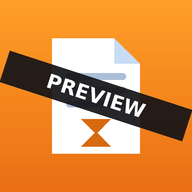
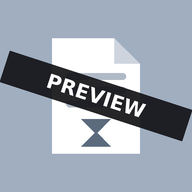
Android-ready install help, orange theme, blue-gray preview
- Device-neutral wording ("this device"); install help in the browser:
  Install app button where offered (Android Chromium), Android menu
  steps otherwise, iPhone Share -> Add to Home Screen; hidden when installed
- Live app accent and icon switched from blue to orange (contrast-checked:
  light #C2410C with white text, dark #FF8A3D with dark text)
- Preview restyled in muted blue-gray: flat icon with PREVIEW band,
  striped monospace banner, slate accent
- Tests: platform detection unit tests; e2e on iPhone and Pixel 7 profiles
  (24/24 each), preview isolation 11/11; docs incl. custom icon guide

Claude-Session: https://claude.ai/code/session_01TQMKAVub6FwojoZ4grUgiR

diff --git a/src/App.tsx b/src/App.tsx
@@ -10,6 +10,7 @@ import { formatBytes } from "./format";
 import { pageRequestCount } from "./netMonitor";
 import { applyUpdate, checkForUpdates, subscribePwa, type PwaState, type UpdateState } from "./pwa";
 import { DiagnosticsDialog } from "./components/Dialogs";
+import { promptInstall, subscribeInstall, type InstallState } from "./install";
 import { buildDiagnostics } from "./diagnostics";
 
 type Stage =
@@ -65,7 +66,7 @@ function friendlyError(e: unknown): string {
       case "not-pdf":
         return "This file couldn't be read as a PDF. It may be damaged or a different file type.";
       case "memory":
-        return "This document needs more memory than iOS allows a web app. Try a smaller file, or the Lossless profile.";
+        return "This document needs more memory than this device allows a web app. Try a smaller file, or the Lossless profile.";
       case "crashed":
         return e.message;
       default:
@@ -75,7 +76,7 @@ function friendlyError(e: unknown): string {
   return `Unexpected error: ${(e as Error)?.message ?? String(e)}`;
 }
 
-/** Keeps the screen on during processing where supported, because iOS suspends backgrounded web apps. */
+/** Keeps the screen on during processing where supported, because phones suspend backgrounded web apps. */
 async function holdWakeLock(): Promise<() => void> {
   try {
     const nav = navigator as Navigator & { wakeLock?: { request(t: "screen"): Promise<{ release(): Promise<void> }> } };
@@ -93,9 +94,11 @@ export default function App() {
   const [profile, setProfile] = useState<ProfileId>(loadProfile);
   const [pwa, setPwa] = useState<PwaState | null>(null);
   const [diagnostics, setDiagnostics] = useState<string | null>(null);
+  const [install, setInstall] = useState<InstallState | null>(null);
   const fileInput = useRef<HTMLInputElement>(null);
 
   useEffect(() => subscribePwa(setPwa), []);
+  useEffect(() => subscribeInstall(setInstall), []);
   useEffect(() => {
     // Load the engine in the background so the first analysis starts immediately.
     engine.current!.warmUp().catch(() => {});
@@ -188,13 +191,31 @@ export default function App() {
         {stage.kind === "home" && (
           <div className="home">
             <div className="home-icon" aria-hidden="true">
-              <img src="./icon-192.png" alt="" width={96} height={96} />
+              <img src={IS_PREVIEW ? "./preview-icon-192.png" : "./icon-192.png"} alt="" width={96} height={96} />
             </div>
             <p className="home-lead">Shrink scanned PDFs without losing quality, searchable text or bookmarks.</p>
             <button type="button" className="btn btn-primary btn-large" onClick={pickFile}>
               Choose PDF
             </button>
-            <p className="footnote center">Processed entirely on this iPhone. Nothing is uploaded.</p>
+            <p className="footnote center">Processed entirely on this device. Nothing is uploaded.</p>
+            {install && !install.standalone && (
+              <div className="install-hint">
+                {install.canPrompt ? (
+                  <button type="button" className="btn btn-secondary" onClick={() => void promptInstall()}>
+                    Install app
+                  </button>
+                ) : install.platform === "ios" ? (
+                  <p className="footnote center">
+                    To install: tap <strong>Share</strong>, then <strong>Add to Home Screen</strong>. It then works offline.
+                  </p>
+                ) : install.platform === "android" ? (
+                  <p className="footnote center">
+                    To install: open the browser menu <strong>⋮</strong>, then <strong>Install app</strong> or{" "}
+                    <strong>Add to Home screen</strong>. It then works offline.
+                  </p>
+                ) : null}
+              </div>
+            )}
           </div>
         )}
 

diff --git a/src/styles.css b/src/styles.css
@@ -6,8 +6,10 @@
   --text: #000000;
   --text-2: #3c3c4399;
   --sep: #3c3c434a;
-  --accent: #007aff;
-  --accent-press: #0062cc;
+  /* Orange accent. Deep enough for white text (contrast 5.2:1). */
+  --accent: #c2410c;
+  --accent-press: #9a3412;
+  --on-accent: #ffffff;
   --fill: #7676801f;
   --green: #34c759;
   --red: #ff3b30;
@@ -23,8 +25,9 @@
     --text: #ffffff;
     --text-2: #ebebf599;
     --sep: #54545899;
-    --accent: #0a84ff;
-    --accent-press: #409cff;
+    --accent: #ff8a3d;
+    --accent-press: #ffa868;
+    --on-accent: #1a0b00; /* dark text on bright orange (8.9:1) */
     --fill: #7676803d;
     --green: #30d158;
     --red: #ff453a;
@@ -91,7 +94,7 @@ button { font: inherit; }
   min-height: 50px; padding: 14px 20px; font-size: 17px; font-weight: 600; cursor: pointer;
 }
 .btn:disabled { opacity: 0.4; }
-.btn-primary { background: var(--accent); color: #fff; }
+.btn-primary { background: var(--accent); color: var(--on-accent); }
 .btn-primary:active:not(:disabled) { background: var(--accent-press); }
 .btn-secondary { background: var(--card); color: var(--accent); }
 .btn-secondary:active:not(:disabled) { background: var(--fill); }
@@ -166,7 +169,7 @@ button { font: inherit; }
 .modal-title { margin: 0 40px 10px 0; font-size: 22px; font-weight: 700; }
 .modal-icon {
   width: 56px; height: 56px; border-radius: 28px; margin: 4px auto 12px; display: flex;
-  align-items: center; justify-content: center; font-size: 28px; color: #fff; background: var(--accent);
+  align-items: center; justify-content: center; font-size: 28px; color: var(--on-accent); background: var(--accent);
 }
 .modal-text { margin: 0 0 4px; font-size: 16px; color: var(--text-2); }
 .modal-text.small { font-size: 14px; }
@@ -177,9 +180,23 @@ button { font: inherit; }
 @keyframes fade-in { from { opacity: 0; } to { opacity: 1; } }
 @media (prefers-reduced-motion: reduce) { .modal-backdrop { animation: none; } }
 
+/* Preview build: muted blue-gray, deliberately plain "work in progress" look. */
+:root[data-variant="preview"] {
+  --accent: #5b6b7d;
+  --accent-press: #46535f;
+  --on-accent: #ffffff;
+}
+@media (prefers-color-scheme: dark) {
+  :root[data-variant="preview"] {
+    --accent: #a5b4c6;
+    --accent-press: #c3cdd9;
+    --on-accent: #0f172a;
+  }
+}
 .preview-banner {
-  background: var(--orange); color: #000; text-align: center; font-size: 13px; font-weight: 600;
-  padding: 6px 12px;
+  color: #1e293b; text-align: center; font: 600 12px/1.3 ui-monospace, Menlo, monospace;
+  letter-spacing: 0.02em; padding: 6px 12px; border-bottom: 1px dashed #94a3b8;
+  background: repeating-linear-gradient(-45deg, #cbd5e1 0 10px, #d5dde7 10px 20px);
 }
 
 /* "App info & updates" summary row: title on the left, update badge on the right */
@@ -198,3 +215,5 @@ button { font: inherit; }
 }
 .update-badge.quiet { background: var(--fill); color: var(--text-2); font-weight: 400; }
 .update-dot { width: 8px; height: 8px; border-radius: 4px; background: var(--accent); }
+
+.install-hint { margin-top: 4px; }

diff --git a/src/install.ts b/src/install.ts
@@ -1,0 +1,78 @@
+/**
+ * "Install this app" help for people opening the link in a browser.
+ *
+ * - Android Chrome / Edge / Samsung Internet (and desktop Chrome) fire
+ *   `beforeinstallprompt`; we keep the event and offer a real Install button.
+ * - iPhone/iPad Safari has no install API; we show the Share → Add to Home
+ *   Screen steps instead.
+ * - Once running as an installed app (standalone), nothing is shown.
+ */
+
+export type Platform = "ios" | "android" | "other";
+
+interface BeforeInstallPromptEvent extends Event {
+  prompt(): Promise<void>;
+  userChoice: Promise<{ outcome: "accepted" | "dismissed" }>;
+}
+
+export interface InstallState {
+  standalone: boolean;
+  platform: Platform;
+  /** True when the browser offers a one-tap install (Android/desktop Chromium). */
+  canPrompt: boolean;
+}
+
+let deferred: BeforeInstallPromptEvent | null = null;
+const listeners = new Set<(s: InstallState) => void>();
+
+export function detectPlatform(ua = navigator.userAgent, maxTouchPoints = navigator.maxTouchPoints): Platform {
+  if (/android/i.test(ua)) return "android";
+  // iPadOS 13+ reports itself as a Mac; touch support gives it away.
+  if (/iphone|ipad|ipod/i.test(ua) || (/macintosh/i.test(ua) && maxTouchPoints > 1)) return "ios";
+  return "other";
+}
+
+function isStandalone(): boolean {
+  return (
+    window.matchMedia?.("(display-mode: standalone)").matches === true ||
+    (navigator as Navigator & { standalone?: boolean }).standalone === true
+  );
+}
+
+function state(): InstallState {
+  return { standalone: isStandalone(), platform: detectPlatform(), canPrompt: deferred !== null };
+}
+
+function emit() {
+  const s = state();
+  for (const l of listeners) l(s);
+}
+
+export function subscribeInstall(l: (s: InstallState) => void): () => void {
+  listeners.add(l);
+  l(state());
+  return () => listeners.delete(l);
+}
+
+/** Shows the browser's install dialog (only when canPrompt). */
+export async function promptInstall(): Promise<void> {
+  const e = deferred;
+  if (!e) return;
+  deferred = null;
+  await e.prompt();
+  await e.userChoice.catch(() => undefined);
+  emit();
+}
+
+/** Must run at startup, before the browser fires the event. */
+export function startInstallListener() {
+  window.addEventListener("beforeinstallprompt", (e) => {
+    e.preventDefault(); // keep it for our own button instead of the browser's mini-bar
+    deferred = e as BeforeInstallPromptEvent;
+    emit();
+  });
+  window.addEventListener("appinstalled", () => {
+    deferred = null;
+    emit();
+  });
+}

diff --git a/test/install.test.ts b/test/install.test.ts
@@ -1,0 +1,16 @@
+import { describe, it, expect } from "vitest";
+import { detectPlatform } from "../src/install";
+
+describe("platform detection for install help", () => {
+  it.each([
+    ["Mozilla/5.0 (iPhone; CPU iPhone OS 18_1 like Mac OS X) AppleWebKit/605.1.15 (KHTML, like Gecko) Version/18.1 Mobile/15E148 Safari/604.1", 5, "ios"],
+    ["Mozilla/5.0 (Macintosh; Intel Mac OS X 10_15_7) AppleWebKit/605.1.15 (KHTML, like Gecko) Version/18.1 Safari/605.1.15", 5, "ios"], // iPad in desktop mode
+    ["Mozilla/5.0 (Macintosh; Intel Mac OS X 10_15_7) AppleWebKit/605.1.15 (KHTML, like Gecko) Version/18.1 Safari/605.1.15", 0, "other"], // real Mac
+    ["Mozilla/5.0 (Linux; Android 14; Pixel 7) AppleWebKit/537.36 (KHTML, like Gecko) Chrome/130.0.0.0 Mobile Safari/537.36", 5, "android"],
+    ["Mozilla/5.0 (Linux; Android 14; SM-S918B) AppleWebKit/537.36 (KHTML, like Gecko) SamsungBrowser/26.0 Chrome/122.0.0.0 Mobile Safari/537.36", 5, "android"],
+    ["Mozilla/5.0 (Android 14; Mobile; rv:131.0) Gecko/131.0 Firefox/131.0", 5, "android"],
+    ["Mozilla/5.0 (Windows NT 10.0; Win64; x64) AppleWebKit/537.36 (KHTML, like Gecko) Chrome/130.0.0.0 Safari/537.36", 0, "other"],
+  ])("%s → %s", (ua, touch, expected) => {
+    expect(detectPlatform(ua as string, touch as number)).toBe(expected);
+  });
+});

diff --git a/src/components/ProcessingView.tsx b/src/components/ProcessingView.tsx
@@ -50,7 +50,7 @@ export function ProcessingView({
       <p className="processing-label">{label}</p>
       <p className="processing-time">{formatMs(Math.max(0, now - startedAt))}</p>
       <p className="footnote center">
-        Keep this app open and on screen. iOS pauses web apps in the background. Everything runs on this device.
+        Keep this app open and on screen. Phones pause web apps in the background. Everything runs on this device.
       </p>
       <button type="button" className="btn btn-secondary" onClick={onCancel}>
         Cancel

diff --git a/src/main.tsx b/src/main.tsx
@@ -3,9 +3,11 @@ import { createRoot } from "react-dom/client";
 import App from "./App";
 import { startNetMonitor } from "./netMonitor";
 import { registerServiceWorker } from "./pwa";
+import { startInstallListener } from "./install";
 import "./styles.css";
 
 startNetMonitor();
+startInstallListener();
 registerServiceWorker();
 
 createRoot(document.getElementById("root")!).render(

diff --git a/build/app-identity.ts b/build/app-identity.ts
@@ -16,7 +16,8 @@ export function appIdentity(): Plugin {
     transformIndexHtml(html) {
       return html
         .replaceAll("__APP_NAME__", NAME)
-        .replaceAll("__ICON_PREFIX__", ICON);
+        .replaceAll("__ICON_PREFIX__", ICON)
+        .replaceAll("__VARIANT__", IS_PREVIEW ? "preview" : "live");
     },
     generateBundle() {
       const manifest = {

diff --git a/src/format.ts b/src/format.ts
@@ -1,4 +1,4 @@
-/** Decimal units, matching how iOS Files reports sizes. */
+/** Decimal units, matching how the iOS Files and Android Files apps report sizes. */
 export function formatBytes(n: number): string {
   if (n < 1000) return `${n} B`;
   if (n < 1e6) return `${(n / 1e3).toFixed(n < 1e4 ? 1 : 0)} KB`;

diff --git a/index.html b/index.html
@@ -1,5 +1,5 @@
 <!doctype html>
-<html lang="en">
+<html lang="en" data-variant="__VARIANT__">
   <head>
     <meta charset="UTF-8" />
     <!--

diff --git a/scripts/make-icons.py b/scripts/make-icons.py
@@ -6,25 +6,26 @@ def icon(size, maskable=False, preview=False):
     S = size * 4  # supersample
     im = Image.new("RGB", (S, S), (10, 102, 214))
     d = ImageDraw.Draw(im)
-    for y in range(S):  # vertical gradient (blue for the app, orange for the preview build)
+    for y in range(S):  # vertical gradient (orange for the app, blue-gray for the preview build)
         t = y / S
-        c = (int(255 - 20 * t), int(160 - 50 * t), int(40 - 20 * t)) if preview else (int(30 - 20 * t), int(130 - 40 * t), int(240 - 30 * t))
+        # live: orange gradient; preview: flat, muted blue-gray (deliberately plain)
+        c = (160, 174, 192) if preview else (int(249 - 55 * t), int(115 - 50 * t), int(22 - 10 * t))
         d.line([(0, y), (S, y)], fill=c)
     pad = S * (0.26 if maskable else 0.2)
     w = S - 2 * pad
     x0, y0, x1, y1 = pad + w * 0.12, pad, pad + w * 0.88, S - pad
     fold = w * 0.22
     d.polygon([(x0, y0), (x1 - fold, y0), (x1, y0 + fold), (x1, y1), (x0, y1)], fill=(255, 255, 255))
-    d.polygon([(x1 - fold, y0), (x1 - fold, y0 + fold), (x1, y0 + fold)], fill=(200, 220, 245))
+    d.polygon([(x1 - fold, y0), (x1 - fold, y0 + fold), (x1, y0 + fold)], fill=(205, 212, 222) if preview else (255, 214, 186))
     cx = (x0 + x1) / 2
     lw = S * 0.035
     for k in range(3):  # text lines
         yy = y0 + w * (0.30 + 0.12 * k)
-        d.rounded_rectangle([x0 + w * 0.12, yy, x1 - w * 0.12, yy + lw], radius=lw / 2, fill=(170, 190, 215))
+        d.rounded_rectangle([x0 + w * 0.12, yy, x1 - w * 0.12, yy + lw], radius=lw / 2, fill=(176, 186, 199) if preview else (236, 196, 168))
     # compress arrows (pointing inward)
     a = w * 0.13
     for sgn, base in ((1, y0 + w * 0.70), (-1, y1 - w * 0.06)):
-        d.polygon([(cx - a, base), (cx + a, base), (cx, base + sgn * a)], fill=(215, 105, 15) if preview else (10, 102, 214))
+        d.polygon([(cx - a, base), (cx + a, base), (cx, base + sgn * a)], fill=(91, 107, 125) if preview else (194, 65, 12))
     if preview:  # diagonal "PREVIEW" band so it cannot be mistaken for the real app
         band = Image.new("RGBA", (S, S), (0, 0, 0, 0))
         bd = ImageDraw.Draw(band)

diff --git a/ROADMAP.md b/ROADMAP.md
@@ -9,8 +9,8 @@ single merge into `main`.
 
 | Where | What it is | Who sees it |
 |---|---|---|
-| `main` branch → **PDF Optimizer** (blue icon) | The live app | Your daily app |
-| `next` branch → **PDF Optimizer Preview** (orange icon, "PREVIEW" banner) | Work in progress, tested | Install it as a second Home Screen app to try changes before release |
+| `main` branch → **PDF Optimizer** (orange icon) | The live app | Your daily app, and the link to share |
+| `next` branch → **PDF Optimizer Preview** (blue-gray icon, striped "PREVIEW" banner) | Work in progress, tested | Install it as a second Home Screen app to try changes before release |
 
 1. A new idea is added below under **Planned**.
 2. It is built on `next`. Automatic tests run, and the preview app updates itself a few minutes later.
@@ -22,6 +22,9 @@ It never sends documents anywhere and keeps no documents, same as the live app.
 
 ## Working on (in `next`)
 
+- [x] **Android support shown in the app**: device-neutral wording ("this device", not "this iPhone"). Install help in the browser: a one-tap **Install app** button where the browser offers it (Android Chrome, Edge, Samsung Internet), menu steps otherwise, and Share → Add to Home Screen steps on iPhone. Full flow tested on an Android (Pixel 7) profile in Chromium, the engine Chrome on Android uses. *Not yet tried on a real Android phone.*
+- [x] **Orange instead of blue** in the live app: accent, buttons and icon. Deep orange in light mode so white button text stays readable; bright orange with dark text in dark mode.
+- [x] **Preview restyled** in a plain, muted blue-gray: flat icon with PREVIEW band, striped monospace banner, slate buttons.
 - [x] **Updates moved into a collapsed "App info & updates" section**, like Privacy. No popup. A small blue "Update ready" badge next to the section title when a new version has downloaded. *Built and tested; waiting for you to try it in the preview app.*
 
 ## Planned
@@ -33,6 +36,8 @@ It never sends documents anywhere and keeps no documents, same as the live app.
 - [ ] **Colour spaces and masks** now left unchanged (CMYK, Indexed, images with transparency): handle where it is safe.
 - [ ] **Per-page SSIM report** and page-by-page comparison in the results.
 - [ ] **Multiple PDFs at once** (batch).
+- [ ] **Android: open PDFs from the share sheet** ("Share → PDF Optimizer"). Android supports this for installed web apps; iPhone does not.
+- [ ] **Custom app icon**, if you supply one (see README, "Using your own icon").
 
 ## Ideas, not committed
 

diff --git a/README.md b/README.md
@@ -72,11 +72,16 @@ One-time setup:
 2. Under "Build and deployment" → Source, choose **GitHub Actions**.
 
 The app is then served at `https://<user>.github.io/pdf-optimizer/` over
-HTTPS. To install it on an iPhone:
-1. Open the URL in Safari.
-2. Tap Share → Add to Home Screen.
-3. Launch it once from the Home Screen while online, so the service worker
-   caches the app (about 15 MB) for offline use.
+HTTPS. It runs on iPhone/iPad (Safari, iOS 16.4+) and Android (Chrome,
+Edge, Samsung Internet; recent versions). Opened in a browser, it shows how
+to install it:
+- **iPhone/iPad:** Safari → Share → Add to Home Screen.
+- **Android:** an **Install app** button, or browser menu ⋮ → Install app /
+  Add to Home screen.
+
+Open it once while online after installing, so it caches itself (about
+15 MB) for offline use. Android has been tested in Chromium with a Pixel 7
+profile (`E2E_DEVICE="Pixel 7" npm run e2e`), not yet on a physical phone.
 
 Updates: the app checks for a new version at launch, whenever it returns to
 the foreground, and every 30 minutes. When one has downloaded, a small
@@ -100,6 +105,24 @@ it all. The plan and status are in [`ROADMAP.md`](ROADMAP.md).
   service worker scopes, names and icons).
 - `.github/workflows/deploy.yml` publishes `main` at the site root and `next`
   under `/preview/`.
+
+## Using your own icon
+
+Send one square PNG, ideally **1024 × 1024**, with a solid (not transparent)
+background and square corners. iOS and Android round the corners themselves.
+Keep the important part inside the middle ~80% (Android may crop to a
+circle). Every size is generated from it:
+
+| File (in `public/`) | Size | Used by |
+|---|---|---|
+| `apple-touch-icon.png` | 180 × 180 | iPhone/iPad Home Screen |
+| `icon-192.png` | 192 × 192 | Android, browser tab, in-app header |
+| `icon-512.png` | 512 × 512 | Android install and splash screen |
+| `icon-maskable-512.png` | 512 × 512, artwork inside the centre 80% | Android adaptive (circle/squircle) icons |
+| `preview-*.png` (same four) | same | Preview app; generated with the "PREVIEW" band |
+
+`scripts/make-icons.py` currently draws the default icon; with a source image
+it would resize it instead.
 
 ## Known limitations (current version)
 
